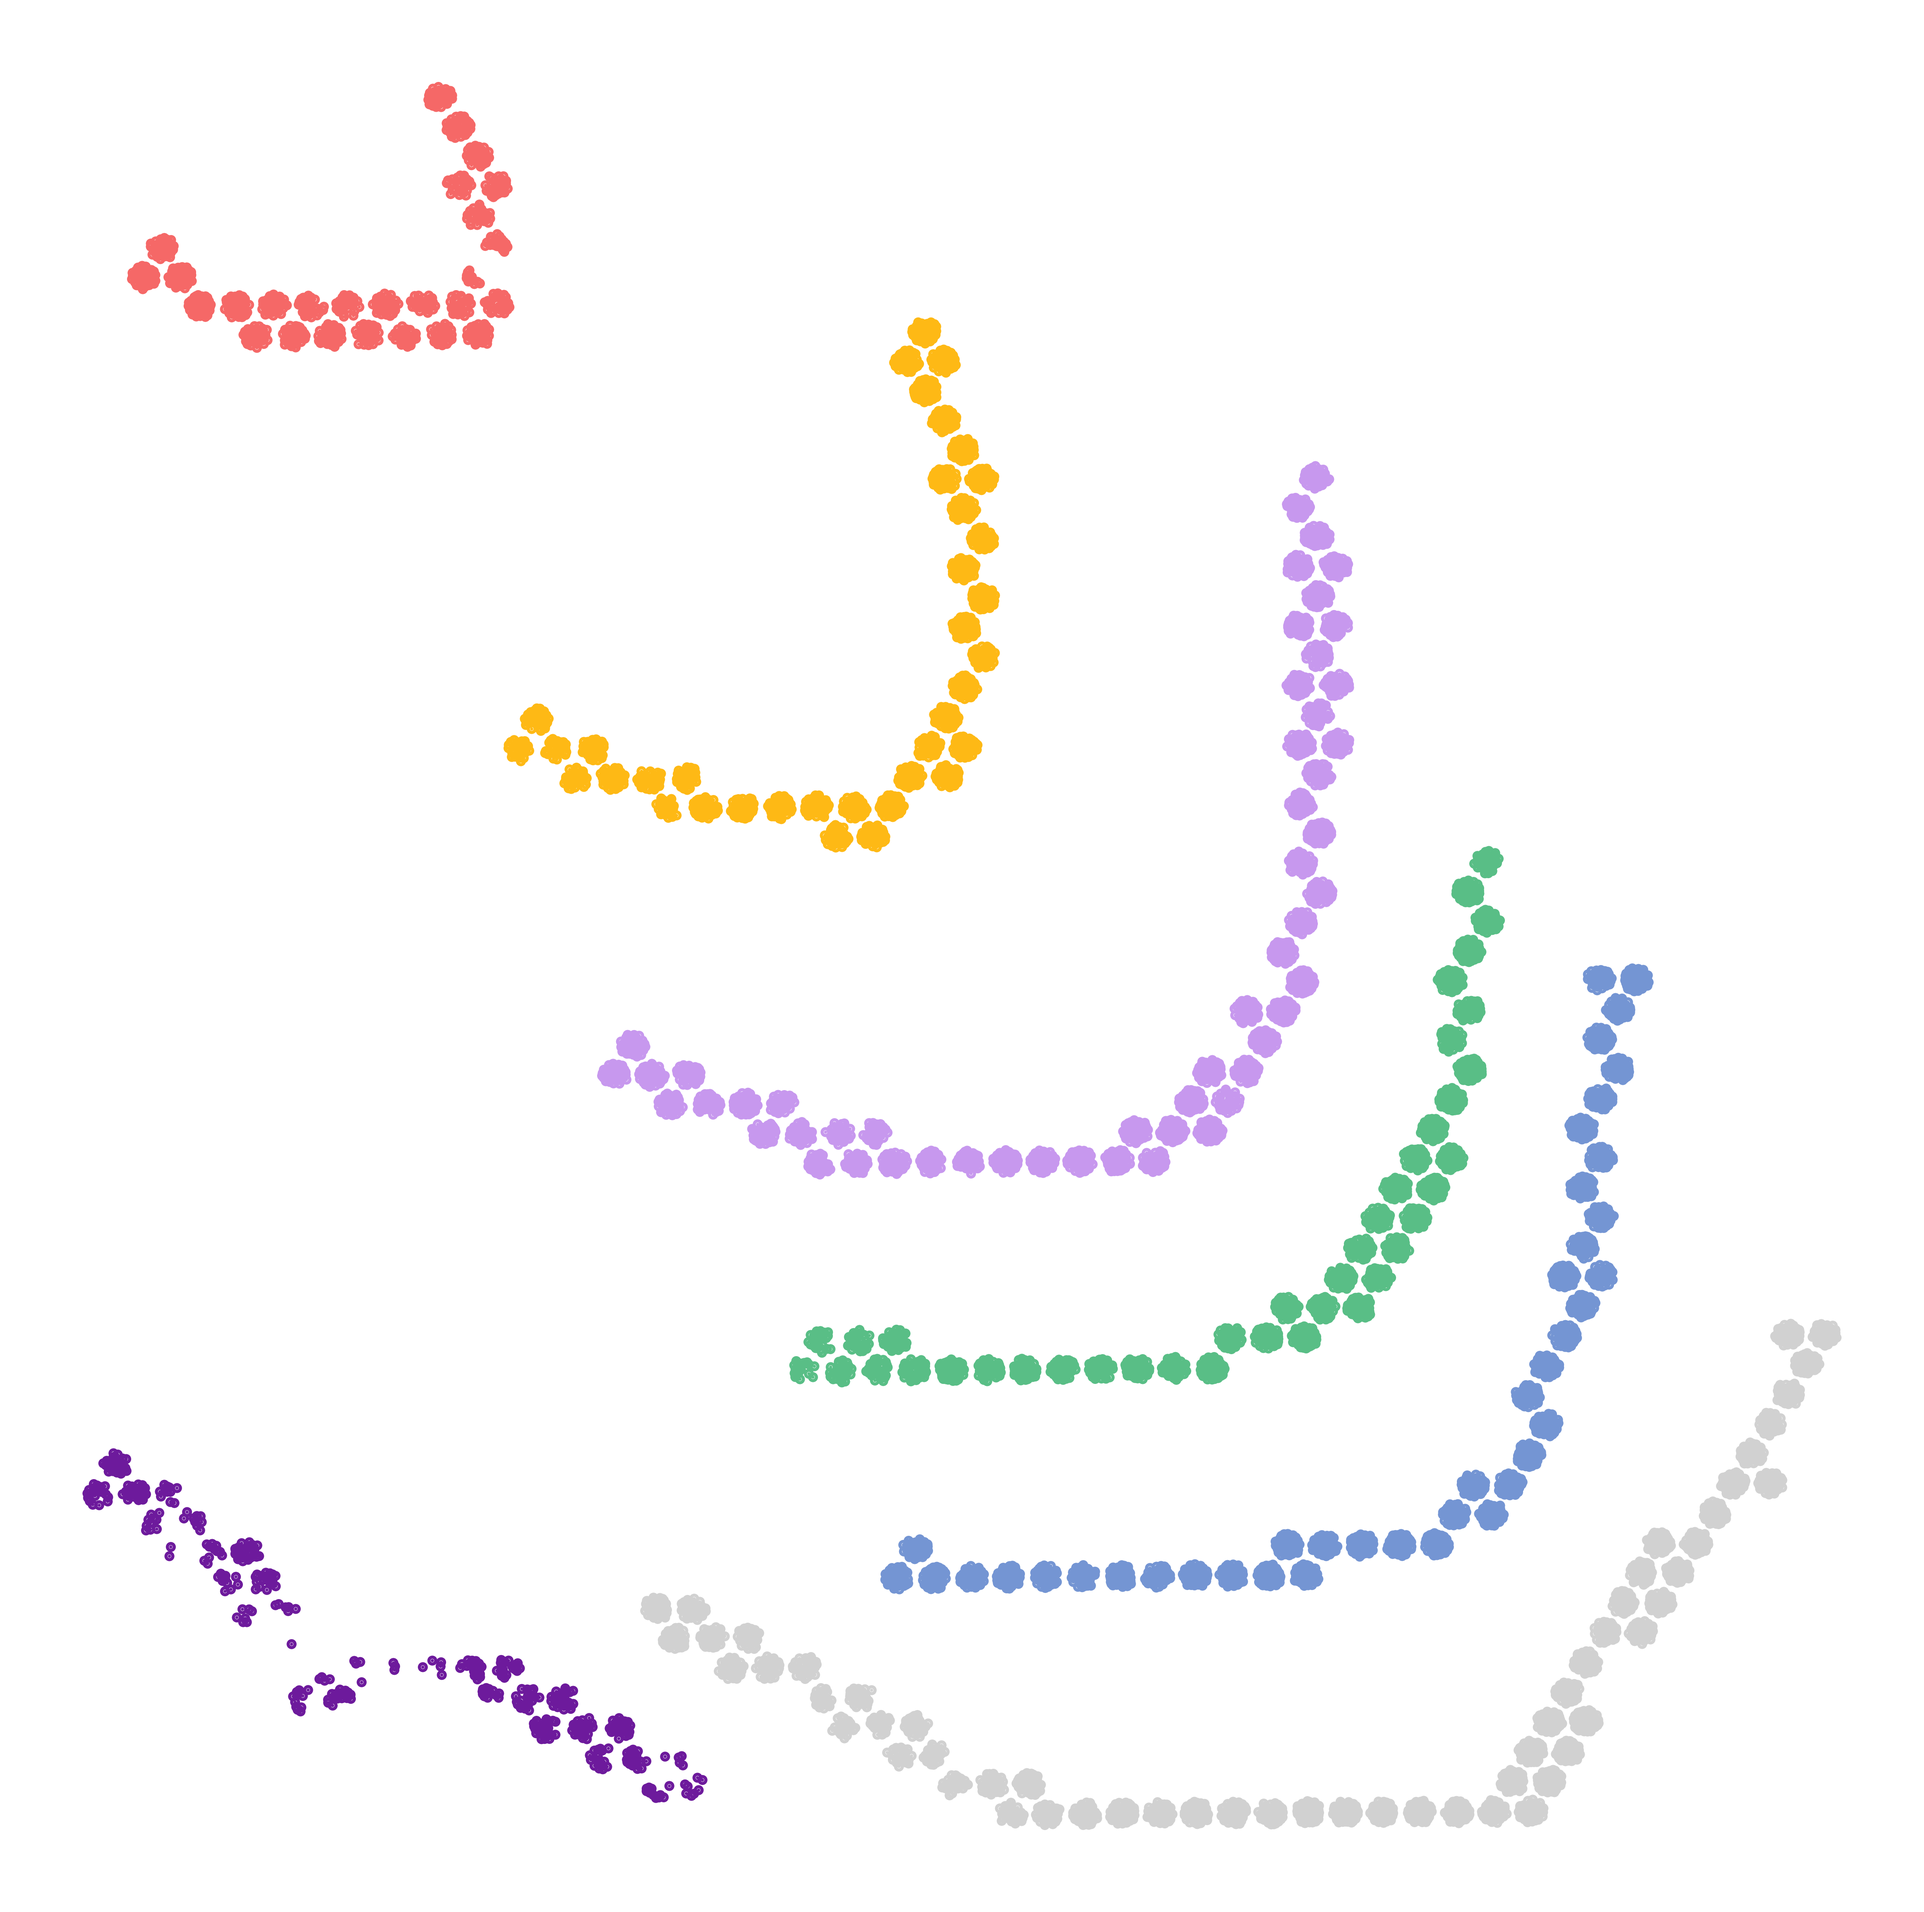
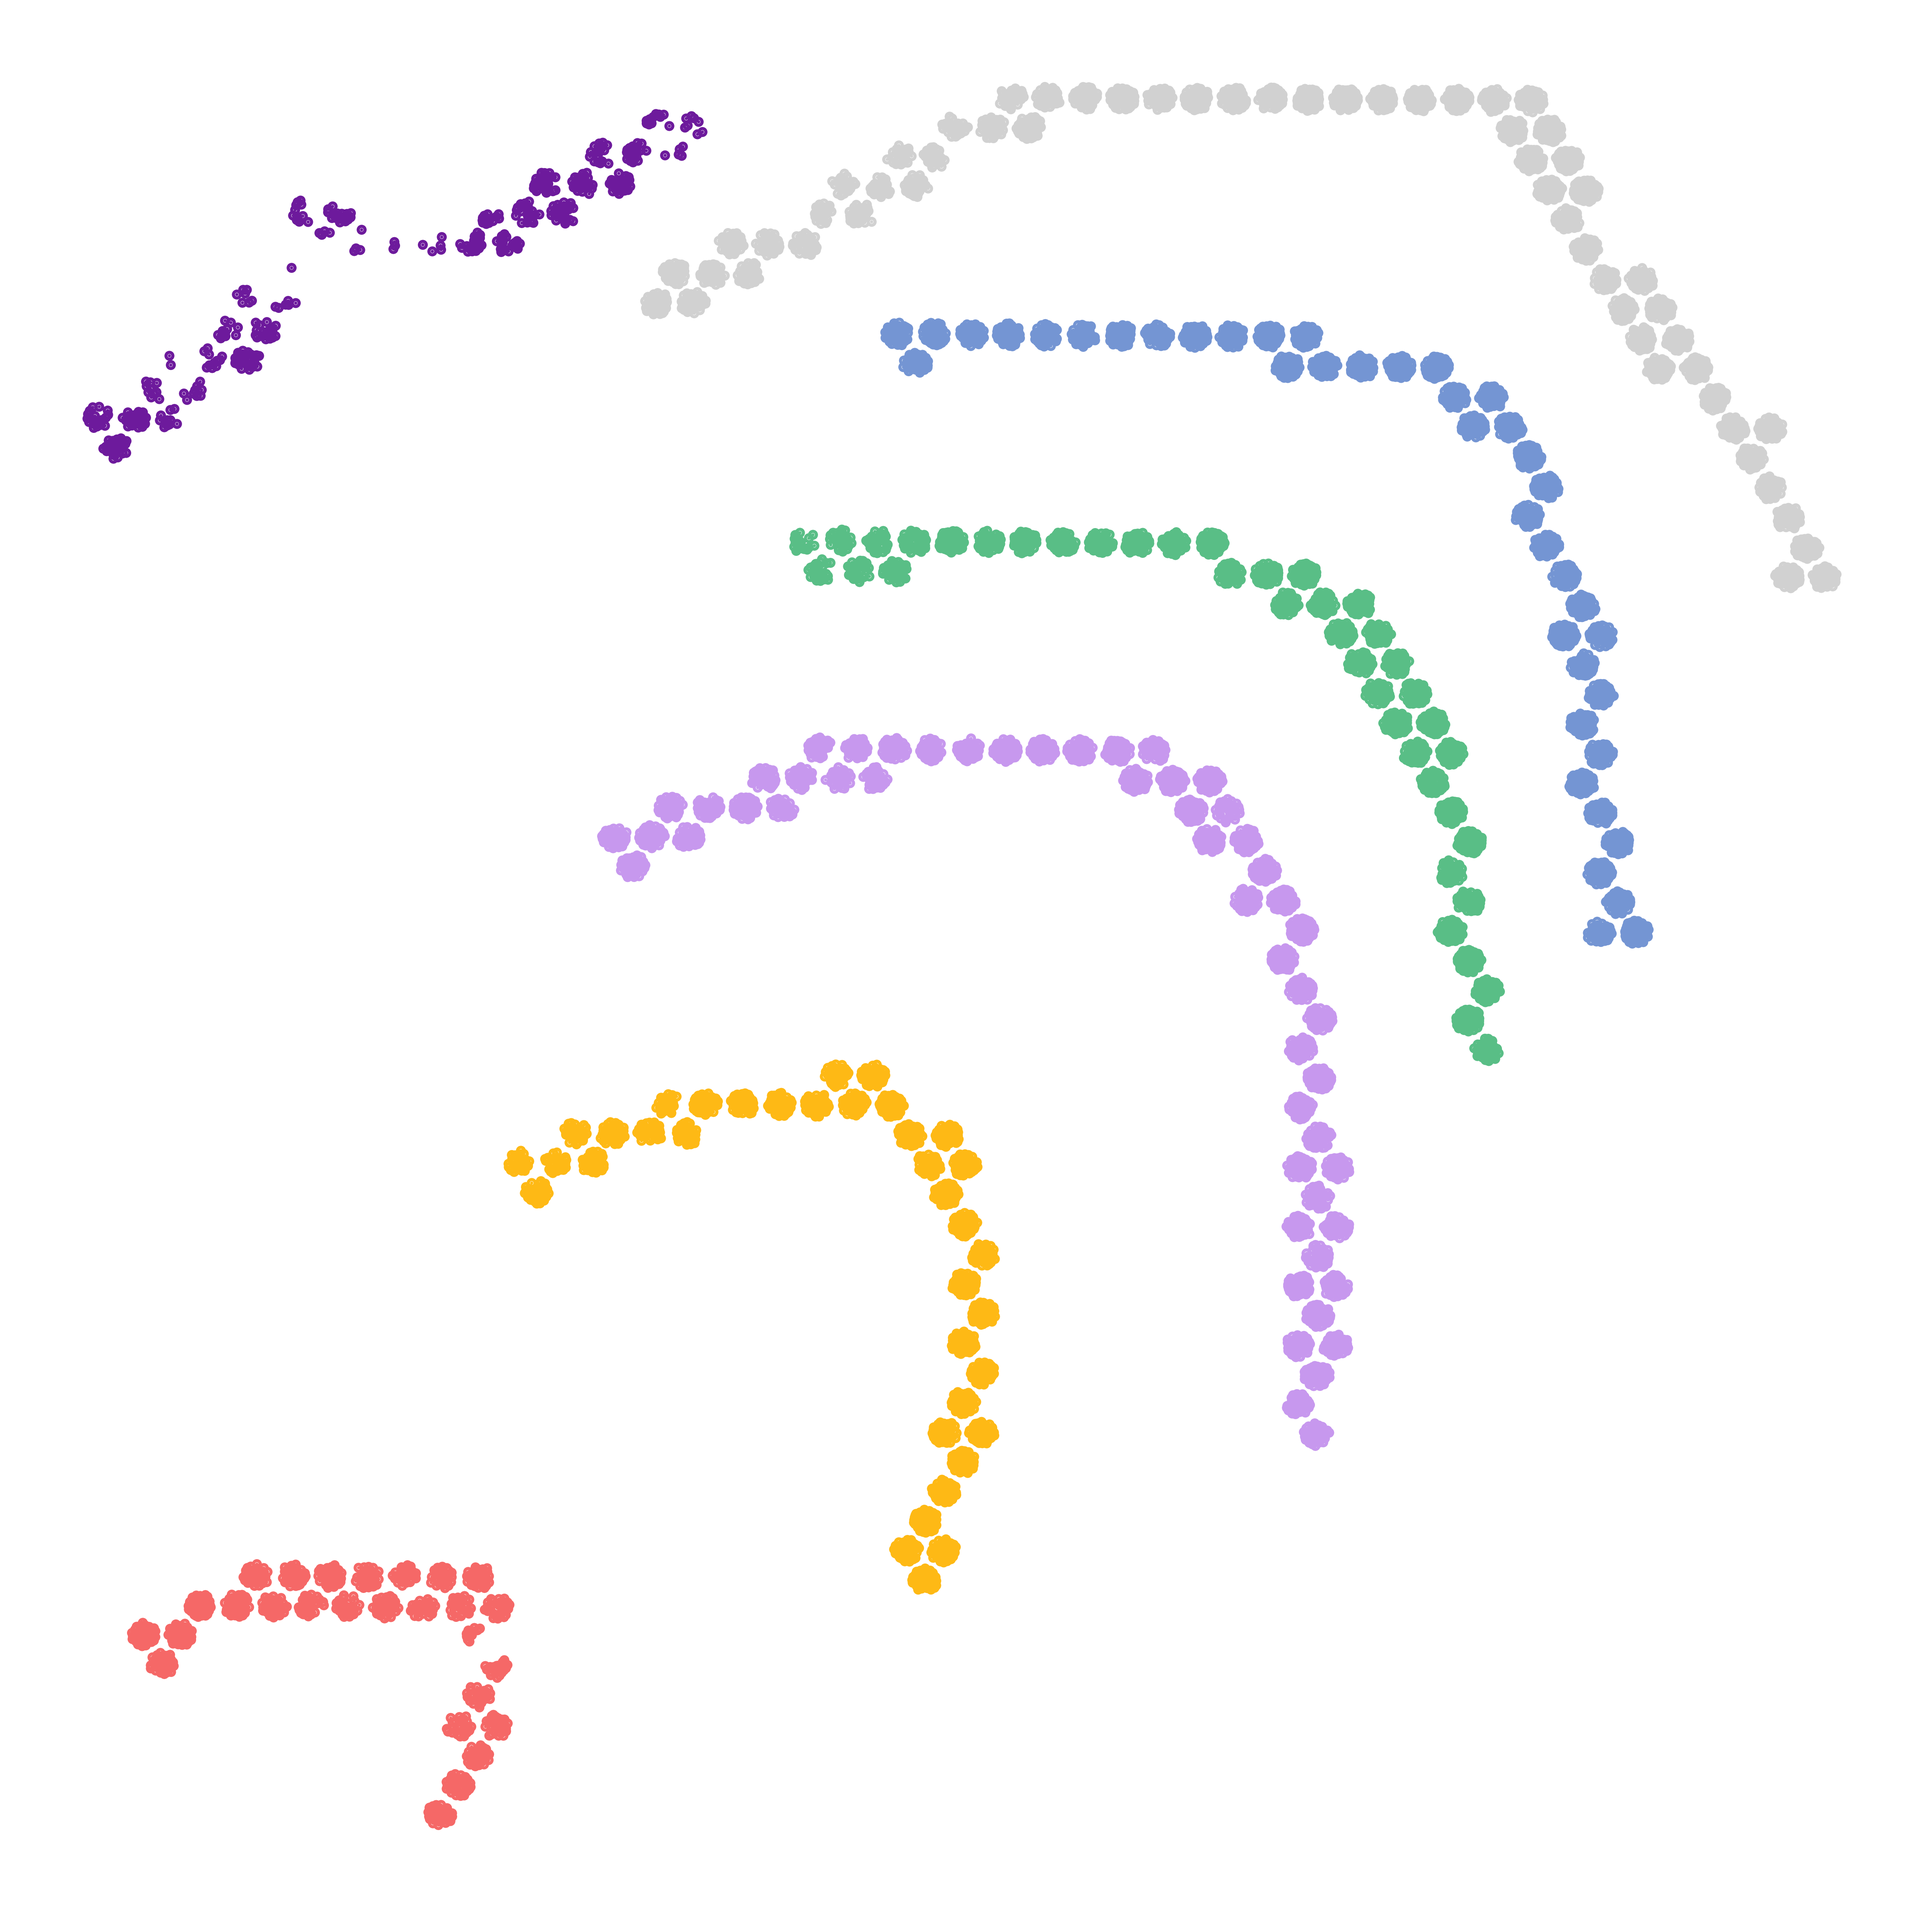
dlpfc 151673 done

diff --git a/scribbleDom/combine_mclust_labels.py b/scribbleDom/combine_mclust_labels.py
@@ -1,20 +1,22 @@
 import os
-
 import pandas as pd
-
+from argument_parser import *
 
 
 
 def combine_mclust_labels(folder_name):
     # Load files
-    gene_mclust_labels_df = pd.read_csv("/mnt/Drive E/Class Notes/L-4 T-1/Thesis/ScribbleDom/preprocessed_data/cancers/bcdc_ffpe/mclust_result.csv")
+    gene_mclust_labels_df = pd.read_csv(f"/mnt/Drive E/Class Notes/L-4 T-1/Thesis/ScribbleDom/preprocessed_data/{dataset}/{samples[0]}/mclust_result.csv")
     morphology_mclust_labels_df = pd.read_csv(f"{folder_name}/spot_labels_from_cell.csv")
-    gene_mclust_backbone = pd.read_csv("/mnt/Drive E/Class Notes/L-4 T-1/Thesis/ScribbleDom/preprocessed_data/cancers/bcdc_ffpe/mclust_backbone.csv")
 
     gene_mclust_labels_df.columns = ['spot_id', 'label']
 
     # Merge keeping all spots from gene_mclust_labels_df
     merged = gene_mclust_labels_df.merge(morphology_mclust_labels_df, on="spot_id", how="left")
+
+    print(f"gene_label length: {len(gene_mclust_labels_df)}")
+    print(f"morphology_label length: {len(morphology_mclust_labels_df)}")
+    print(f"merged length: {len(merged)}")
 
     final_labels = []
     for _, row in merged.iterrows():
@@ -37,18 +39,19 @@ def combine_mclust_labels(folder_name):
 
 
 def read_spot_label_csvs(folder_name):
-    base_path = os.path.join(f"../input-processing/{folder_name}", "spot_labels")
-    data = {}
+    base_path = os.path.join(f'../input-processing/{dataset}/{samples[0]}/{results_folder}', "spot_labels")
 
     # loop through threshold subfolders
     for threshold in os.listdir(base_path):
         threshold_path = os.path.join(base_path, threshold)
 
+        print(f"Processing folder: {threshold_path}")
+
         if os.path.isdir(threshold_path):
             combine_mclust_labels(threshold_path)
 
 
-results_folder = 'raw'
+results_folder = 'yeo-johnson'
 read_spot_label_csvs(results_folder)
 
 

diff --git a/scribbleDom/cell_to_spot.py b/scribbleDom/cell_to_spot.py
@@ -1,6 +1,7 @@
 import pandas as pd
 import numpy as np
 import os
+from argument_parser import *
 
 
 def label_percentage_bins(df_cell_spot, df_cell_clusters, results_folder):
@@ -33,7 +34,7 @@ def label_percentage_bins(df_cell_spot, df_cell_clusters, results_folder):
     bin_counts = bin_counts.pivot(index="Cluster_Label", columns="bin", values="count").fillna(0).astype(int)
 
     # Save CSV
-    bin_counts.to_csv(f"../input-processing/{results_folder}/spot_labels/label_stat.csv", index=True)
+    bin_counts.to_csv(f"{root_path}/spot_labels/label_stat.csv", index=True)
 
 
 def assign_spot_labels(df_cell_spot, df_cell_clusters, results_folder, threshold=0.5):
@@ -75,7 +76,7 @@ def assign_spot_labels(df_cell_spot, df_cell_clusters, results_folder, threshold
     df_spot_labels = pd.DataFrame(spot_label_info)
 
     # Save results
-    output_path = f"../input-processing/{results_folder}/spot_labels/{threshold}"
+    output_path = f"{root_path}/spot_labels/{threshold}"
     os.makedirs(output_path, exist_ok=True)
 
     # Overall bin stats
@@ -93,9 +94,11 @@ def assign_spot_labels(df_cell_spot, df_cell_clusters, results_folder, threshold
 
 
 # Example usage:
-results_folder = 'raw'
-cell_spot_path = '../morphology_preprocessing/morphology_with_spot.csv'
-cell_cluster_path = f'../input-processing/{results_folder}/cell_mclust_result.csv'
+results_folder = 'yeo-johnson'
+root_path = f'../input-processing/{dataset}/{samples[0]}/{results_folder}'
+
+cell_spot_path = f'preprocessed/{dataset}/{samples[0]}/morphology_with_spot.csv'
+cell_cluster_path = f'{root_path}/cell_mclust_result.csv'
 
 cell_spot_df = pd.read_csv(cell_spot_path)
 cell_cluster_df = pd.read_csv(cell_cluster_path)

diff --git a/scribbleDom/show_result.py b/scribbleDom/show_result.py
@@ -15,9 +15,9 @@ def plot_scatter(data_frame, output_img_path):
 
     # Coordinates: last two cols of cell_coord_df are assumed to be x and y
     x = data_frame[data_frame.columns[-2]].values
-    # y = (data_frame[data_frame.columns[-1]].max() - data_frame[data_frame.columns[-1]]).values
+    y = (data_frame[data_frame.columns[-1]].max() - data_frame[data_frame.columns[-1]]).values
 
-    y = ( data_frame[data_frame.columns[-1]]).values
+    # y = ( data_frame[data_frame.columns[-1]]).values
 
     plt.scatter(x, y, c=colors_to_plt, s=0.2, marker='o')
     plt.savefig(output_img_path, dpi=1200, bbox_inches='tight', pad_inches=0)
